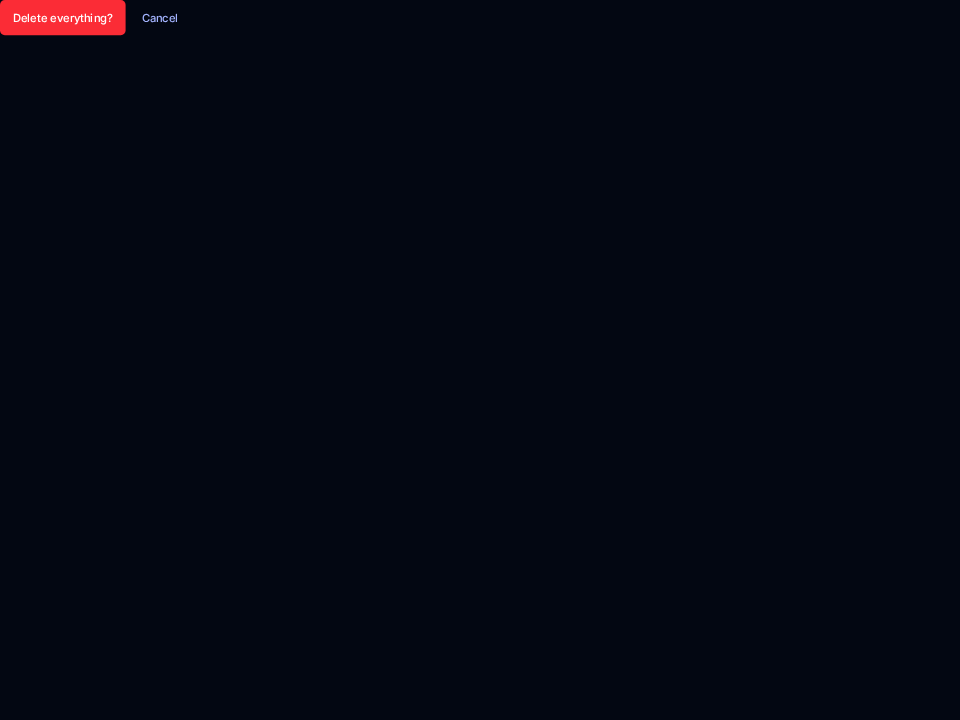
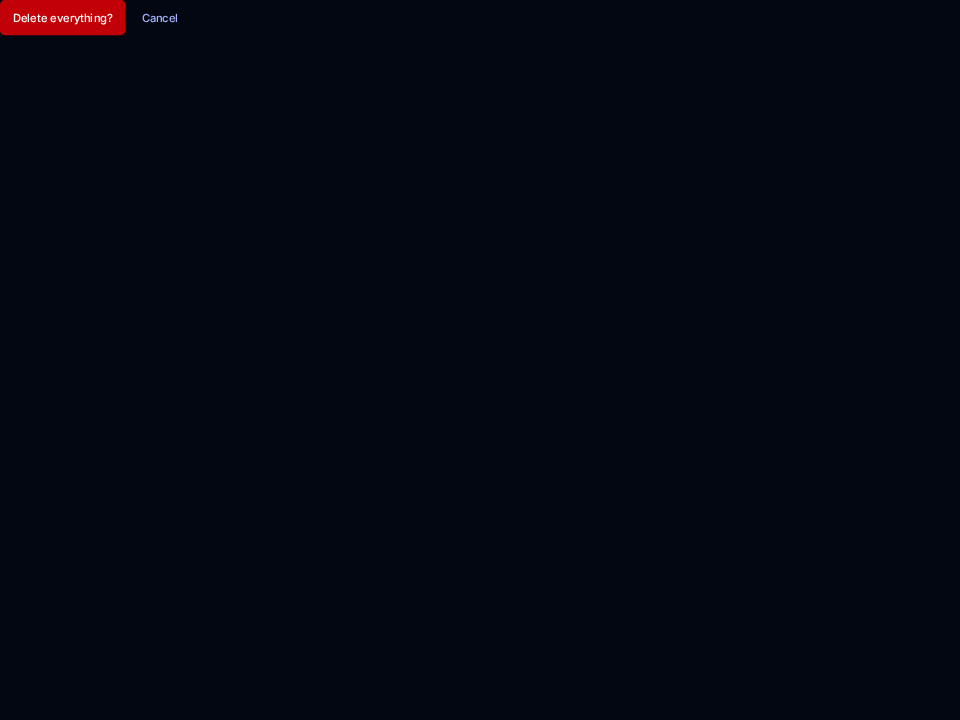
fix(a11y): danger buttons clear the 4.5:1 contrast ratio in both themes
White on red-600 (light) and red-500 (dark) sits below the WCAG
threshold; red-700 clears it in both. The Danger Zone's resting reset
made the failure visible to the axe gate, but every armed confirm
button shared it.

Changed region(s): [[0.0, 0.0, 0.1562, 0.0611]]

diff --git a/app/components/ui/button.tsx b/app/components/ui/button.tsx
@@ -16,7 +16,9 @@ const VARIANT: Record<ButtonVariant, string> = {
     secondary:
         "bg-indigo-50 text-indigo-700 hover:bg-indigo-100 dark:bg-indigo-950 dark:text-indigo-300 dark:hover:bg-indigo-900",
     ghost: "text-indigo-700 hover:bg-indigo-100 dark:text-indigo-300 dark:hover:bg-indigo-900",
-    danger: "bg-red-600 text-white hover:bg-red-700 dark:bg-red-500 dark:hover:bg-red-400",
+    // red-700, not the brighter reds: white text needs it to clear the WCAG
+    // 4.5:1 contrast ratio in both themes.
+    danger: "bg-red-700 text-white hover:bg-red-800 dark:bg-red-700 dark:hover:bg-red-600",
     // Ghost's hover, but no text colour of its own — for a button that sets its own
     // colour to signal state (e.g. the learned toggle). Without tailwind-merge, a variant
     // that shipped its own text-* would fight the caller's, and same-property utilities